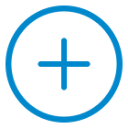
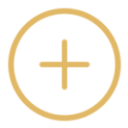
Minor modifications.

Changed region(s): [[0.0312, 0.0312, 0.9688, 0.9688], [0.2812, 0.2812, 0.7188, 0.7188]]

diff --git a/SmartTODO/Shared/Model/AKConstants.swift b/SmartTODO/Shared/Model/AKConstants.swift
@@ -82,31 +82,27 @@ struct GlobalConstants {
     // L&F
     static let AKDefaultFont = "HelveticaNeue-Thin"
     static let AKSecondaryFont = "HelveticaNeue-CondensedBold"
-    static let AKRedColor_1 = Func.AKHexColor(0xcc241d)
-    static let AKRedColor_2 = Func.AKHexColor(0xfb4934)
-    static let AKDefaultBg = Func.AKHexColor(0x181818)
+    static let AKDefaultBg = Func.AKHexColor(0x373B44)
     static let AKDefaultFg = Func.AKHexColor(0xffffff)
     static let AKTabBarBg = GlobalConstants.AKDefaultBg
     static let AKTabBarTintNormal = GlobalConstants.AKDefaultFg
-    static let AKTabBarTintSelected = Func.AKHexColor(0x0088CC)
+    static let AKTabBarTintSelected = Func.AKHexColor(0xE1B866)
     static let AKDefaultTextfieldBorderBg = Func.AKHexColor(0x999999)
     static let AKOverlaysBg = GlobalConstants.AKDefaultBg
     static let AKDefaultViewBorderBg = Func.AKHexColor(0x999999)
     static let AKDefaultFloatingViewBorderBg = UIColor.black
     static let AKDisabledButtonBg = Func.AKHexColor(0x999999)
     static let AKEnabledButtonBg = Func.AKHexColor(0x0088CC)
-    static let AKTableHeaderCellBg = Func.AKHexColor(0x181818)
-    static let AKTableHeaderLeftBorderBg = Func.AKHexColor(0xd79921)
-    static let AKTableCellBg = Func.AKHexColor(0x333333)
-    static let AKTableCellLeftBorderBg = Func.AKHexColor(0x0088CC)
+    static let AKTableHeaderCellBg = Func.AKHexColor(0x373B44)
+    static let AKTableCellBg = Func.AKHexColor(0x373B44)
     static let AKPickerViewFg = GlobalConstants.AKDefaultFg
     static let AKViewCornerRadius: CGFloat = 8.0
     static let AKButtonCornerRadius: CGFloat = 4.0
     static let AKDefaultBorderThickness = 1.4
     static let AKDefaultTextfieldBorderThickness = 2.0
     static let AKDefaultTransitionStyle = UIModalTransitionStyle.coverVertical
-    static let AKBadgeColorBg = Func.AKHexColor(0x458588)
-    static let AKBadgeColorFg = Func.AKHexColor(0xCCCCCC)
+    static let AKBadgeColorBg = Func.AKHexColor(0xBD5532)
+    static let AKBadgeColorFg = Func.AKHexColor(0xFFFFFF)
     // Validations
     static let AKMaxUsernameLength = 12
     static let AKMinUsernameLength = 3

diff --git a/SmartTODO/iPhone/Controllers/AKNewProjectViewController.swift b/SmartTODO/iPhone/Controllers/AKNewProjectViewController.swift
@@ -205,7 +205,6 @@ class AKNewProjectViewController: AKCustomViewController, UITextFieldDelegate, U
     // MARK: Miscellaneous
     func customSetup()
     {
-        super.shouldAddBlurView = true
         super.setup()
         
         // Set Delegator.
@@ -228,7 +227,6 @@ class AKNewProjectViewController: AKCustomViewController, UITextFieldDelegate, U
         self.closingTime.tag = LocalEnums.closingTime.rawValue
         
         // Custom L&F.
-        self.controlsContainer.backgroundColor = UIColor.clear
         self.projectName.layer.cornerRadius = GlobalConstants.AKButtonCornerRadius
         self.startingTime.layer.cornerRadius = GlobalConstants.AKButtonCornerRadius
         self.closingTime.layer.cornerRadius = GlobalConstants.AKButtonCornerRadius

diff --git a/SmartTODO/Application/AKAppDelegate.swift b/SmartTODO/Application/AKAppDelegate.swift
@@ -21,6 +21,7 @@ class AKAppDelegate: UIResponder, UIApplicationDelegate
     func application(_ application: UIApplication, didFinishLaunchingWithOptions launchOptions: [UIApplicationLaunchOptionsKey: Any]?) -> Bool
     {
         // ### Customize the App.
+        UITabBar.appearance().barTintColor = GlobalConstants.AKTabBarBg
         UINavigationBar.appearance().titleTextAttributes = [
             NSFontAttributeName: UIFont(name: GlobalConstants.AKDefaultFont, size: 22.0) ?? UIFont.systemFont(ofSize: 18),
             NSForegroundColorAttributeName: GlobalConstants.AKDefaultFg

diff --git a/SmartTODO/iPhone/Controllers/AKUsernameInputViewController.swift b/SmartTODO/iPhone/Controllers/AKUsernameInputViewController.swift
@@ -83,7 +83,6 @@ class AKUsernameInputViewController: AKCustomViewController, UITextFieldDelegate
         self.usernameValue.tag = LocalTextField.username.rawValue
         
         // Custom L&F.
-        self.controlsContainer.backgroundColor = UIColor.clear
         self.usernameValue.layer.cornerRadius = GlobalConstants.AKButtonCornerRadius
         self.done.layer.cornerRadius = GlobalConstants.AKButtonCornerRadius
     }
